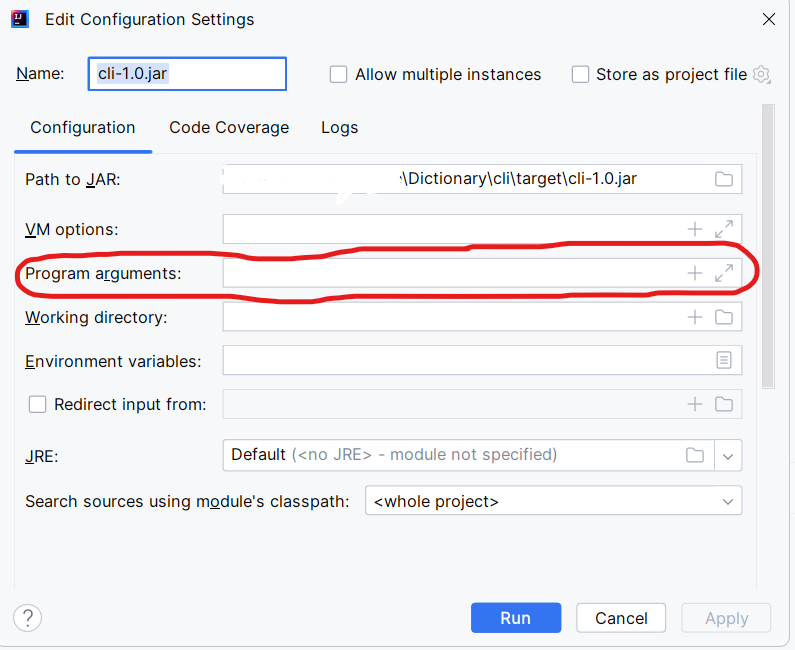
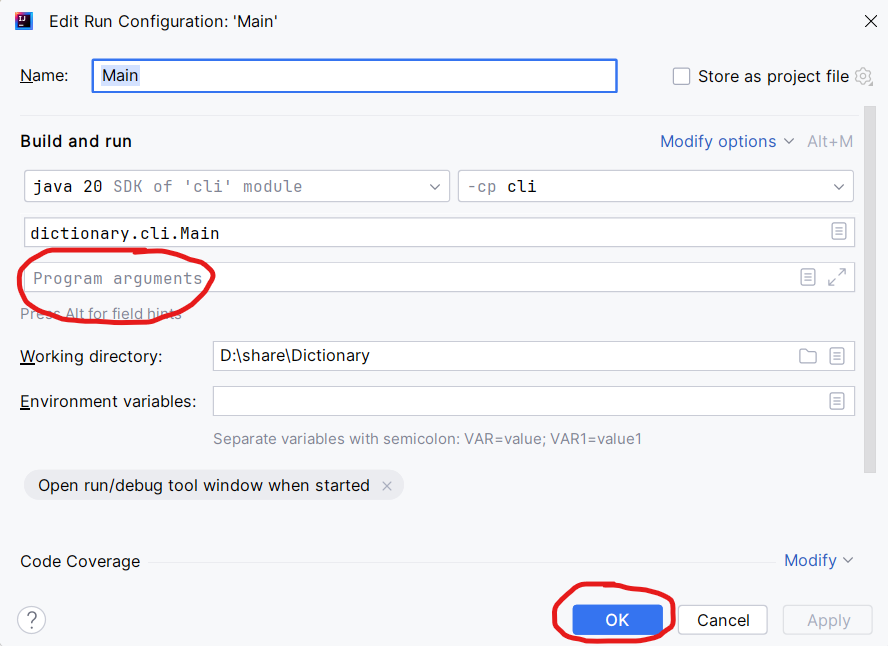
docs: introduce new development workflow

diff --git a/docs/CONTRIBUTING.md b/docs/CONTRIBUTING.md
@@ -91,30 +91,25 @@ Last but not least, **your commit messages must comply with the rules of
 
 **After finishing setup, you won't have to do the setup
 process again.** Just write code in files that you are
-assigned to write. When you want to run:
+assigned to write.
 
-1. Press `Alt-Shift-F10` ([more info](https://stackoverflow.com/a/11159341/13680015))
-   then **don't use the mouse** ; instead, use the Up/Down
-   arrow keys on the keyboard to select which JAR file to
-   run, then press Enter.
+When you want to run:
 
-   ![After pressing Alt-Shift-F10](images/alt-shift-f10.png)
+1. Open the Main.java file of the CLI or the GUI module.
+   There should be a **Run button** at the left of the
+   line that the `Main` class or the `Main.main` function
+   resides.
 
-2. If you want to test CLI with custom command line
-   options, still use the Up/Down arrow key to select
-   the CLI as above, but instead of pressing Enter right
-   away, **press the Right arrow key, then press Down
-   arrow key to move to the Edit button. Press Enter.**
+   ![Run or Debug the module](images/run-or-debug.png)
 
-   ![Edit Configuration](images/cli-edit.png)
+2. Click the **Run button**, then click `Run
+   Main.main()` or `Debug Main.main()` to run
+   the module directly.
 
-   **In the "Program Arguments" section, specify the
-   command line options you want, then click the
-   Run button at the bottom.**
+3. If you want to test CLI with custom command line
+   options, click the **Run button**, then click
+   `Modify Run Configuration`. In the `Program arguments`
+   text box, type in the command line arguments you
+   want, then click Run.
 
-   ![Specifying Runtime Command Line Arguments](images/program-arguments.png)
-
-3. A note about the file `.idea/workspace.xml`: You must
-never commit this file. Just leave it intact, because it
-contains the run configurations so that you could run the
-JAR files when you press `Alt-Shift-F10`.
+   ![Program arguments](images/program-arguments.png)
